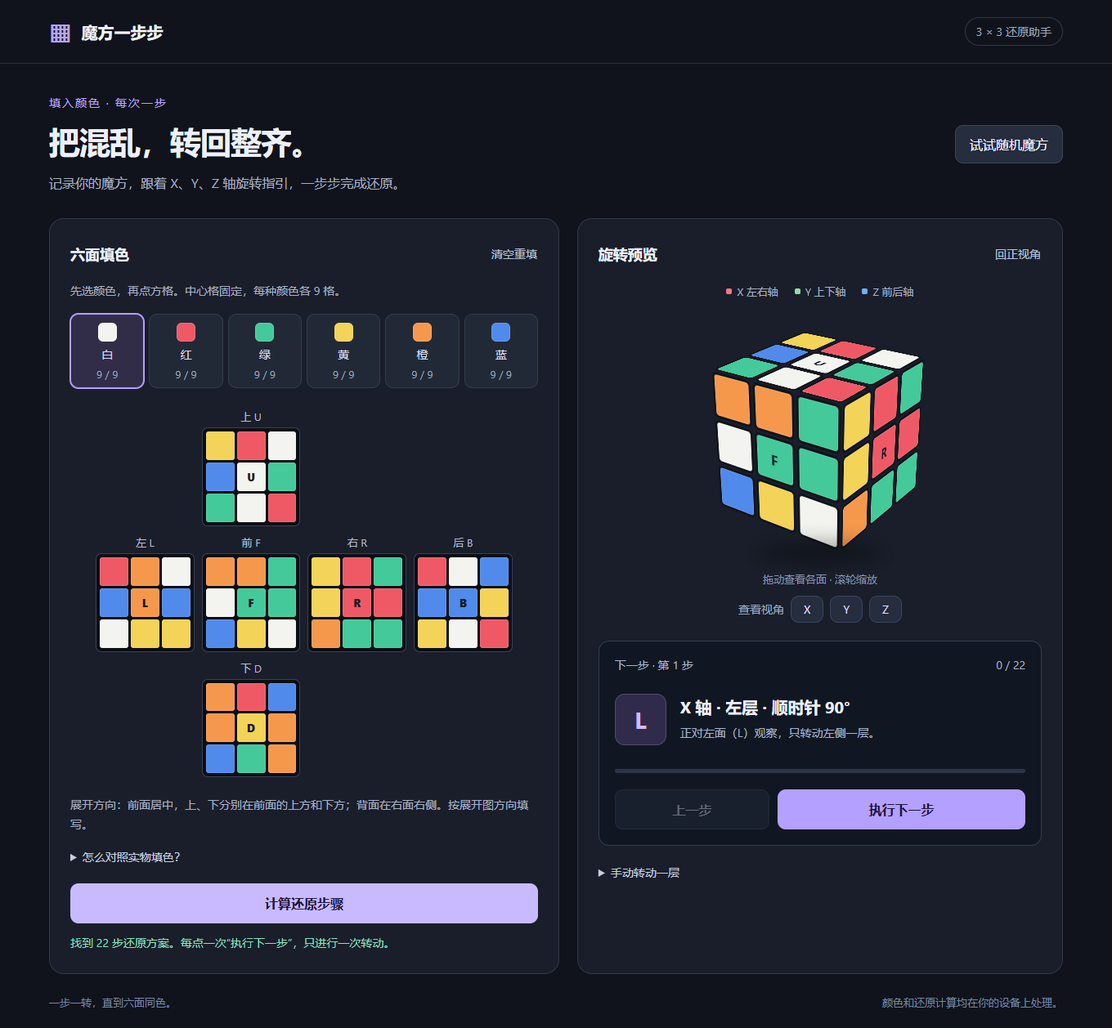
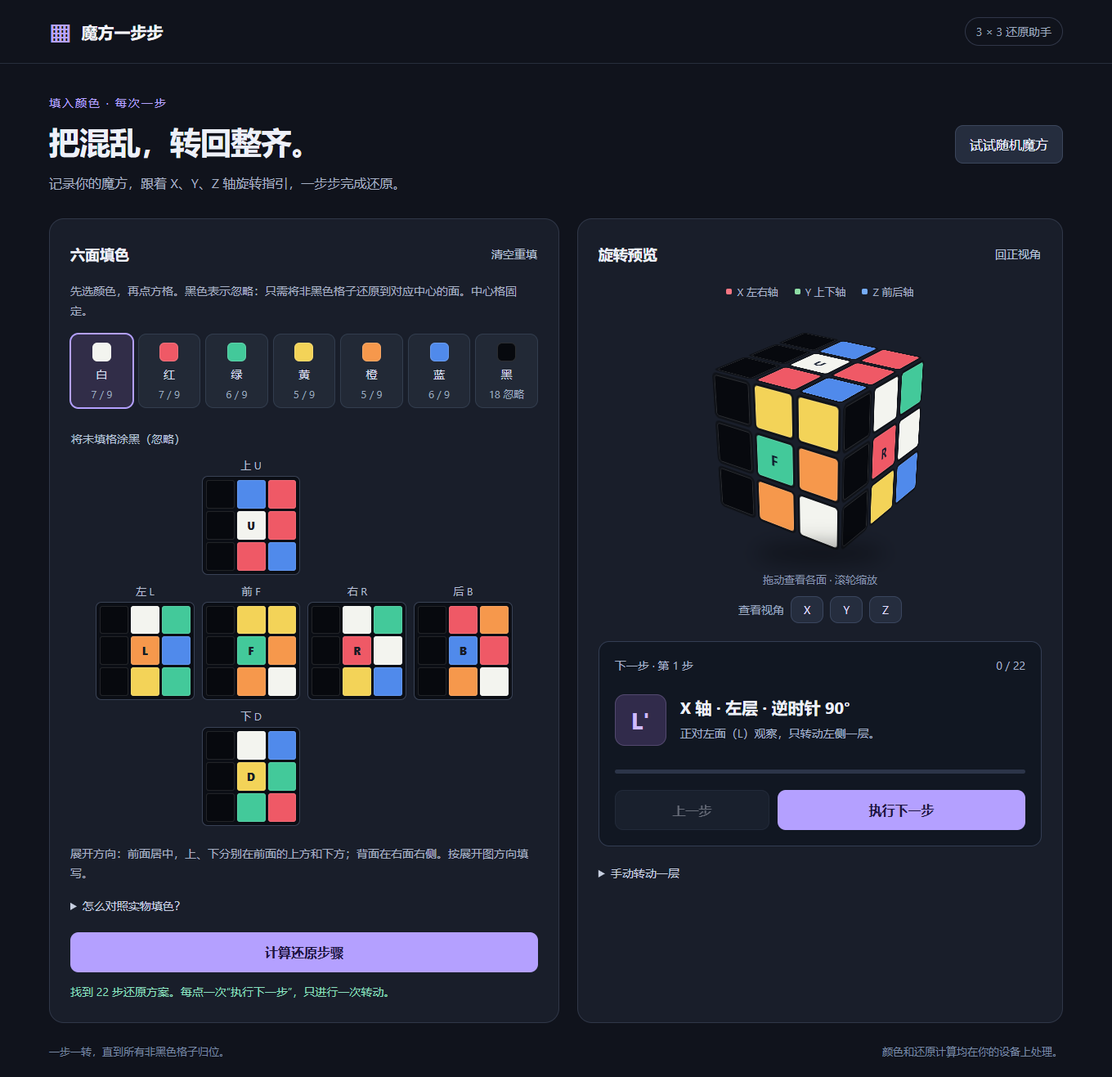
Update Site source

diff --git a/dist/app.js b/dist/app.js
@@ -1,23 +1,24 @@
 (() => {
-  const {faces,names,turns,geometry,describe,validate}=CubeCore;
-  const colors={w:{name:'白',hex:'#f3f4ef'},r:{name:'红',hex:'#ef5966'},g:{name:'绿',hex:'#43c99a'},y:{name:'黄',hex:'#f3d358'},o:{name:'橙',hex:'#f6984c'},b:{name:'蓝',hex:'#508aeb'}};
+  const {faces,names,turns,geometry,describe,validatePattern,isPatternSolved,applyMove}=CubeCore;
+  const colors={w:{name:'白',hex:'#f3f4ef'},r:{name:'红',hex:'#ef5966'},g:{name:'绿',hex:'#43c99a'},y:{name:'黄',hex:'#f3d358'},o:{name:'橙',hex:'#f6984c'},b:{name:'蓝',hex:'#508aeb'},k:{name:'黑',hex:'#07090e'}};
   let centers=['w','r','g','y','o','b'],stickers=faces.flatMap((_,i)=>Array(9).fill(centers[i])),selected='w';
   let moves=[],cursor=0,hasPlan=false,busy=false,animating=false,worker=null,job=0,timer=null;
   let view={x:-25,y:-35,z:0,scale:1};
   const $=id=>document.getElementById(id),cubeEl=$('cube'),net=$('net');
   const status=(text,kind='')=>{$('status').textContent=text;$('status').className='status '+kind;};
   const faceColor=face=>centers[faces.indexOf(face)];
-  function encoded(){return stickers.map(c=>{const i=centers.indexOf(c);return i<0?'?':faces[i];}).join('');}
+  function encoded(){return stickers.map(c=>{if(c==='k')return '*';const i=centers.indexOf(c);return i<0?'?':faces[i];}).join('');}
+  function fromPattern(text){stickers=[...text].map(c=>c==='*'?'k':faceColor(c));}
   function fromCube(c){stickers=[...c.asString()].map(faceColor);}
   function save(){try{localStorage.setItem('cube-step-v1',JSON.stringify({centers,stickers}));}catch{}}
-  try{const v=JSON.parse(localStorage.getItem('cube-step-v1'));if(v&&v.centers?.length===6&&new Set(v.centers).size===6&&v.centers.every(c=>colors[c])&&v.stickers?.length===54&&v.stickers.every(c=>c===null||colors[c])&&faces.every((_,i)=>v.stickers[i*9+4]===v.centers[i])){centers=v.centers;stickers=v.stickers;}}catch{}
+  try{const v=JSON.parse(localStorage.getItem('cube-step-v1'));if(v&&v.centers?.length===6&&new Set(v.centers).size===6&&v.centers.every(c=>colors[c]&&c!=='k')&&v.stickers?.length===54&&v.stickers.every(c=>c===null||colors[c])&&faces.every((_,i)=>v.stickers[i*9+4]===v.centers[i])){centers=v.centers;stickers=v.stickers;}}catch{}
   function invalidate(){moves=[];cursor=0;hasPlan=false;updateSteps();}
   function renderPalette(){
     $('palette').replaceChildren();
     for(const [key,color]of Object.entries(colors)){
       const count=stickers.filter(c=>c===key).length,b=document.createElement('button');
       b.className='paint';b.setAttribute('aria-pressed',String(selected===key));b.setAttribute('aria-label',`${color.name}色，已填 ${count} 格`);
-      b.innerHTML=`<span class="paint-swatch" style="background:${color.hex}"></span><span>${color.name}</span><span class="paint-count ${count>9?'over':''}">${count} / 9</span>`;
+      b.innerHTML=`<span class="paint-swatch" style="background:${color.hex}"></span><span>${color.name}</span><span class="paint-count ${key!=='k'&&count>9?'over':''}">${key==='k'?count+' 忽略':count+' / 9'}</span>`;
       b.disabled=busy||animating;b.onclick=()=>{selected=key;renderPalette();};$('palette').append(b);
     }
   }
@@ -51,14 +52,14 @@
     $('step-count').textContent=`${cursor} / ${moves.length}`;
     $('move-token').textContent=complete?'✓':hasPlan?moves[cursor]:'—';
     const info=hasPlan&&!complete?describe(moves[cursor]):null;
-    $('instruction-title').textContent=info?.title||(complete?'六面已经归位':'准备好你的魔方');
-    $('instruction-detail').textContent=info?.detail||(complete?'已完成全部步骤。你可以返回上一步复习。':'填写六面颜色后，点击“计算还原步骤”。');
+    $('instruction-title').textContent=info?.title||(complete?(stickers.includes('k')?'非黑色格子已归位':'六面已经归位'):'准备好你的魔方');
+    $('instruction-detail').textContent=info?.detail||(complete?(stickers.includes('k')?'黑色格子不参与完成判断。你可以返回上一步复习。':'已完成全部步骤。你可以返回上一步复习。'):'填写六面颜色后，点击“计算还原步骤”。');
     const percent=hasPlan?(moves.length?cursor/moves.length*100:100):0;
     $('progress-fill').style.width=percent+'%';document.querySelector('.progress').setAttribute('aria-valuenow',String(Math.round(percent)));
     $('prev').disabled=!hasPlan||cursor===0||busy||animating;
     $('next').disabled=!hasPlan||complete||busy||animating;
     $('next').textContent=complete?'已完成还原':animating?'正在转动…':'执行下一步';
-    for(const id of ['solve','demo','clear','manual-apply','manual-axis','manual-layer','manual-turn'])$(id).disabled=busy||animating;
+    for(const id of ['solve','demo','clear','mask-empty','manual-apply','manual-axis','manual-layer','manual-turn'])$(id).disabled=busy||animating;
     $('solve').textContent=busy?'正在计算…':'计算还原步骤';
     document.querySelectorAll('#centers select').forEach(el=>el.disabled=busy||animating);
   }
@@ -66,21 +67,22 @@
   function renderCenters(){
     $('centers').replaceChildren();faces.forEach((face,i)=>{
       const label=document.createElement('label');label.textContent=`${names[face]}面 ${face}`;const sel=document.createElement('select');sel.setAttribute('aria-label',`${names[face]}面中心颜色`);
-      Object.entries(colors).forEach(([k,v])=>{const opt=document.createElement('option');opt.value=k;opt.textContent=v.name;sel.append(opt);});sel.value=centers[i];
+      Object.entries(colors).filter(([k])=>k!=='k').forEach(([k,v])=>{const opt=document.createElement('option');opt.value=k;opt.textContent=v.name;sel.append(opt);});sel.value=centers[i];
       sel.onchange=()=>{const old=centers[i],other=centers.indexOf(sel.value),next=sel.value;centers[i]=next;centers[other]=old;stickers=stickers.map(c=>c===old?next:c===next?old:c);invalidate();renderCenters();renderAll();status('中心配色已调整；请对照实物检查其余方格。');};label.append(sel);$('centers').append(label);
     });
   }
   $('demo').onclick=()=>{const c=new Cube();let last='';for(let i=0;i<22;i++){let f;do{f=faces[Math.floor(Math.random()*6)];}while(f===last);last=f;c.move(f+['',"'",'2'][Math.floor(Math.random()*3)]);}fromCube(c);invalidate();renderAll();status('已生成合法的随机魔方，点击“计算还原步骤”开始。');};
   $('clear').onclick=()=>{stickers=Array(54).fill(null);faces.forEach((_,i)=>stickers[i*9+4]=centers[i]);invalidate();renderAll();status('已保留六个中心。请选择画笔，填写其他 48 格。');};
+  $('mask-empty').onclick=()=>{stickers=stickers.map(c=>c===null?'k':c);invalidate();renderAll();status('未填格已涂黑；计算时只要求非黑色格子归位。');};
   function finishSolve(){clearTimeout(timer);timer=null;busy=false;renderPalette();renderNet();updateSteps();}
   function workerError(message){finishSolve();worker?.terminate();worker=null;status(message,'error');}
   $('solve').onclick=()=>{
-    let c;try{c=validate(encoded(),Cube);}catch(e){status(e.message,'error');return;}
-    invalidate();if(c.isSolved()){hasPlan=true;updateSteps();status('这个魔方已经还原，不需要转动。','success');return;}
+    try{validatePattern(encoded(),Cube);}catch(e){status(e.message,'error');return;}
+    invalidate();if(isPatternSolved(encoded())){hasPlan=true;updateSteps();status(stickers.includes('k')?'非黑色格子已经还原，黑色格子忽略，不需要转动。':'这个魔方已经还原，不需要转动。','success');return;}
     if(location.protocol==='file:'){status('请通过本地启动器或网站打开，浏览器直接打开文件不支持后台求解。','error');return;}
     busy=true;renderPalette();renderNet();updateSteps();status('正在计算还原步骤…');const id=++job;
     try{
-      if(!worker){worker=new Worker('solver-worker.js');worker.onmessage=({data})=>{
+      if(!worker){worker=new Worker('solver-worker.js?v=black1');worker.onmessage=({data})=>{
         if(data.id!==job)return;
         if(data.kind==='progress'){status(data.message);return;}
         if(data.kind==='error'){workerError(data.message);return;}
@@ -90,19 +92,19 @@
     }catch{workerError('浏览器无法启动求解器，请通过现代浏览器打开网站。');}
   };
   async function animateMove(move){
-    const c=validate(encoded(),Cube),info=describe(move);animating=true;renderPalette();renderNet();updateSteps();
+    const text=encoded(),info=describe(move);animating=true;renderPalette();renderNet();updateSteps();
     const group=document.createElement('div');group.className='turn-layer';cubeEl.append(group);const ai={X:0,Y:1,Z:2}[info.axis];
     for(const el of [...cubeEl.querySelectorAll('.tile')])if(geometry(el.dataset.face,Number(el.dataset.index)).p[ai]===info.layer)group.append(el);
     if(!matchMedia('(prefers-reduced-motion: reduce)').matches){
       const animation=group.animate([{transform:`rotate${info.axis}(0deg)`},{transform:`rotate${info.axis}(${info.css*info.amount}deg)`}],{duration:Math.abs(info.amount)===2?650:450,easing:'cubic-bezier(.4,0,.2,1)',fill:'forwards'});
       await animation.finished;
     }
-    c.move(move);fromCube(c);animating=false;
+    fromPattern(applyMove(text,move));animating=false;
   }
-  $('next').onclick=async()=>{if(animating||busy||!hasPlan||cursor>=moves.length)return;await animateMove(moves[cursor]);cursor++;renderAll();if(cursor===moves.length)status('还原完成！六个面都已同色。','success');};
+  $('next').onclick=async()=>{if(animating||busy||!hasPlan||cursor>=moves.length)return;await animateMove(moves[cursor]);cursor++;renderAll();if(cursor===moves.length)status(stickers.includes('k')?'还原完成！所有非黑色格子都已归位，黑色格子忽略。':'还原完成！六个面都已同色。','success');};
   $('prev').onclick=async()=>{if(animating||busy||!hasPlan||cursor===0)return;await animateMove(Cube.inverse(moves[cursor-1]));cursor--;renderAll();status('已返回上一步，可以再次执行。');};
   $('manual-apply').onclick=async()=>{
-    try{validate(encoded(),Cube);}catch(e){status(e.message,'error');return;}
+    try{validatePattern(encoded(),Cube);}catch(e){status(e.message,'error');return;}
     const axis=$('manual-axis').value,layer=Number($('manual-layer').value),face=faces.find(f=>turns[f].axis===axis&&turns[f].layer===layer),move=face+$('manual-turn').value;
     invalidate();await animateMove(move);renderAll();status(`已执行 ${describe(move).title}。可以重新计算还原方案。`);
   };

diff --git a/dist/style.css b/dist/style.css
@@ -1,1 +1,2 @@
 *{box-sizing:border-box} :root{font-family:Inter,"Segoe UI","Microsoft YaHei",sans-serif;color:#edf0f8;background:#10131c;font-size:16px;color-scheme:dark}body{margin:0}button,select{font:inherit}button,a,summary,select{-webkit-tap-highlight-color:transparent}button{cursor:pointer;border:1px solid transparent;border-radius:10px;transition:background .15s,transform .15s}button:active:not(:disabled){transform:translateY(1px)}button:disabled{opacity:.4;cursor:default}button:focus-visible,a:focus-visible,summary:focus-visible,select:focus-visible{outline:3px solid #a8bdff;outline-offset:4px}.topbar{height:78px;border-bottom:1px solid #272d3b;display:flex;align-items:center;justify-content:space-between;padding:0 max(30px,calc((100vw - 1240px)/2))}.brand{text-decoration:none;color:#f4f5fb;font-size:20px;font-weight:700;display:flex;align-items:center;gap:12px}.brand-mark{color:#b7a3ff;font-size:32px;line-height:1}.tag{color:#9da7bd;font-size:14px;border:1px solid #303648;border-radius:30px;padding:7px 13px}main{max-width:1300px;margin:auto;padding:38px 30px 20px}.intro{display:flex;align-items:center;justify-content:space-between;gap:20px;margin-bottom:30px}.eyebrow{color:#b5a2ff;font-size:14px;letter-spacing:2px;margin:0 0 12px}h1{font-size:clamp(26px,3.5vw,38px);letter-spacing:-1px;margin:0 0 12px}h2{font-size:18px;margin:0}h3{font-size:20px;margin:0 0 7px}.subtitle{color:#a6afc2;margin:0;line-height:1.7}.workspace{display:grid;grid-template-columns:1.05fr 1fr;gap:22px}.panel{background:#191e2a;border:1px solid #303748;border-radius:18px;padding:25px;min-width:0}.panel-heading{display:flex;justify-content:space-between;align-items:center;gap:15px}.hint,.orientation{color:#a6afc2;font-size:14px;line-height:1.7}.hint{margin:16px 0}.primary{background:#b4a0ff;color:#1e153e;font-weight:700;padding:13px 22px}.primary:hover:not(:disabled){background:#c9baff}.secondary{padding:12px 17px;background:#252d3e;border-color:#3b465c;color:#ecf0ff}.secondary:hover:not(:disabled){background:#333e53}.text-button{padding:7px 0;background:transparent;color:#b6c1d7;font-size:14px}.text-button:hover{color:#dfd5ff}.palette{display:grid;grid-template-columns:repeat(6,1fr);gap:6px;margin-bottom:20px}.paint{background:#222936;border-color:#323d4e;padding:10px 2px 8px;display:flex;flex-direction:column;align-items:center;gap:6px;color:#d6dcec;font-size:14px}.paint[aria-pressed=true]{border-color:#b4a0ff;box-shadow:0 0 0 1px #b4a0ff;background:#312d48}.paint-swatch{height:23px;width:23px;border-radius:6px;border:1px solid #ffffff25}.paint-count{color:#9ba7bd;font-size:13px}.paint-count.over{color:#ff9898}.net-scroll{overflow:auto;padding:6px 0 14px}.net{display:grid;grid-template-columns:repeat(4,minmax(0,1fr));grid-template-rows:repeat(3,auto);gap:11px 9px;min-width:288px;max-width:510px;margin:auto}.face{min-width:0}.face-title{font-size:13px;text-align:center;margin-bottom:5px;color:#b5bfd2}.face-grid{display:grid;grid-template-columns:repeat(3,1fr);gap:3px;background:#0b0e15;padding:4px;border:1px solid #394255;border-radius:7px}.sticker{aspect-ratio:1;min-width:0;padding:0;border-radius:3px;border:1px solid #ffffff1c;position:relative}.sticker:hover:not(:disabled){filter:brightness(1.15);outline:2px solid #c7b5ff;z-index:1}.sticker.center{color:#171b25;font-size:13px;font-weight:800;opacity:1;cursor:default}.face[data-face=U]{grid-column:2;grid-row:1}.face[data-face=L]{grid-column:1;grid-row:2}.face[data-face=F]{grid-column:2;grid-row:2}.face[data-face=R]{grid-column:3;grid-row:2}.face[data-face=B]{grid-column:4;grid-row:2}.face[data-face=D]{grid-column:2;grid-row:3}.orientation{margin:8px 0 15px}details{color:#aeb9cf;font-size:14px;line-height:1.8}summary{cursor:pointer;color:#c7cfe0}details p{margin:9px 0}.centers{display:grid;grid-template-columns:repeat(3,1fr);gap:8px;margin:12px 0}label{display:flex;flex-direction:column;gap:5px}select{border-radius:8px;background:#252d3e;border:1px solid #46516a;color:#e4e9f5;padding:9px 24px 9px 9px;font-size:14px;appearance:none;background-image:linear-gradient(45deg,transparent 50%,#a7b3c9 50%),linear-gradient(135deg,#a7b3c9 50%,transparent 50%);background-position:calc(100% - 12px) 15px,calc(100% - 8px) 15px;background-size:4px 4px;background-repeat:no-repeat}.wide{width:100%;margin-top:20px}.status{font-size:14px;color:#b5bfd1;line-height:1.7;margin:12px 0 0;min-height:24px}.status.error{color:#ffaaaa}.status.success{color:#8bdfbe}.play-panel{display:flex;flex-direction:column}.view-legend{display:flex;justify-content:center;gap:20px;margin-top:20px;font-size:13px;color:#a8b3ca}.view-legend span{display:flex;align-items:center;gap:6px}.view-legend i{width:7px;height:7px;border-radius:2px}.axis-x{background:#f77682}.axis-y{background:#8edea5}.axis-z{background:#76acfa}.scene{height:310px;position:relative;perspective:900px;touch-action:none;cursor:grab;overflow:hidden;border-radius:12px}.scene:active{cursor:grabbing}.cube{position:absolute;top:49%;left:50%;transform-style:preserve-3d;width:0;height:0}.tile{position:absolute;width:57px;height:57px;left:-28.5px;top:-28.5px;border:3px solid #101319;border-radius:7px;backface-visibility:hidden;box-shadow:inset 0 0 0 1px #ffffff25;display:flex;justify-content:center;align-items:center;font-size:19px;font-weight:750;color:#0e172b;user-select:none}.turn-layer{position:absolute;transform-style:preserve-3d}.shadow{position:absolute;width:160px;height:23px;border-radius:50%;background:#0006;filter:blur(12px);bottom:12px;left:calc(50% - 80px);pointer-events:none}.drag-hint{text-align:center;font-size:13px;color:#8795af;margin:0 0 12px}.view-controls{display:flex;gap:8px;align-items:center;justify-content:center;margin-bottom:22px;color:#9ba8c0;font-size:14px}.view-controls button{background:#252d3e;color:#e1ddff;border-color:#3a465e;padding:6px 15px}.step-card{background:#111722;border:1px solid #333d53;border-radius:13px;padding:19px}.step-top{display:flex;justify-content:space-between;color:#a6b2cb;font-size:14px;margin-bottom:19px}.instruction{display:flex;align-items:center;gap:17px;min-height:76px}.move-token{background:#312b4b;border:1px solid #53496f;min-width:63px;height:63px;border-radius:12px;display:flex;align-items:center;justify-content:center;color:#cebbff;font-size:28px;font-weight:750}.instruction p{font-size:14px;color:#a3b1cb;margin:0;line-height:1.7}.progress{height:5px;background:#2c3549;margin:23px 0 20px;border-radius:4px;overflow:hidden}.progress div{height:100%;background:#b4a0ff;width:0;transition:width .3s}.step-buttons{display:grid;grid-template-columns:1fr 1.6fr;gap:10px}.manual{margin-top:20px}.manual-controls{display:grid;grid-template-columns:.5fr 1.5fr 1.2fr;gap:8px;margin:12px 0}.manual-controls button{grid-column:1/-1}footer{display:flex;justify-content:space-between;gap:15px;color:#7888a3;font-size:13px;padding:24px 0 0;line-height:1.7}@media(min-width:1100px){.scene{height:335px}}@media(max-width:850px){.workspace{grid-template-columns:1fr}.intro{align-items:flex-start}.intro>.secondary{white-space:nowrap;padding:10px 12px;font-size:14px}.net{max-width:440px}.scene{height:300px}}@media(max-width:480px){main{padding:25px 14px 18px}.topbar{height:65px;padding:0 17px}.brand{font-size:18px}.tag{font-size:12px;padding:6px 9px}.intro{flex-wrap:wrap;margin-bottom:20px}.subtitle{font-size:14px}.panel{padding:18px 15px;border-radius:14px}.palette{gap:5px}.paint{font-size:13px}.net{gap:10px 5px}.face-title{font-size:12px}.face-grid{padding:3px;gap:2px}.view-legend{gap:15px}.instruction h3{font-size:18px}.step-card{padding:15px}.manual-controls{grid-template-columns:1fr 1fr}.manual-controls label:first-child{grid-column:1/-1}footer{flex-direction:column;gap:5px}}@media(prefers-reduced-motion:reduce){*{transition:none!important}}
+.palette{grid-template-columns:repeat(7,minmax(0,1fr))}.paint-count{white-space:nowrap}@media(max-width:480px){.palette{grid-template-columns:repeat(4,minmax(0,1fr))}}

diff --git a/dist/core.js b/dist/core.js
@@ -18,10 +18,90 @@
     const r=Math.floor(index/3),c=index%3;
     return {F:{p:[c-1,1-r,1],n:[0,0,1],rot:''},B:{p:[1-c,1-r,-1],n:[0,0,-1],rot:'rotateY(180deg)'},R:{p:[1,1-r,1-c],n:[1,0,0],rot:'rotateY(90deg)'},L:{p:[-1,1-r,c-1],n:[-1,0,0],rot:'rotateY(-90deg)'},U:{p:[c-1,1,r-1],n:[0,1,0],rot:'rotateX(90deg)'},D:{p:[c-1,-1,1-r],n:[0,-1,0],rot:'rotateX(-90deg)'}}[face];
   }
+  // Black is a travelling wildcard sticker, not a seventh physical face color.
+  function isPatternSolved(text) { return text.length===54&&[...text].every((c,i)=>c==='*'||c===faces[Math.floor(i/9)]); }
+  function validatePattern(text,Cube) {
+    if(text.length!==54||/[^URFDLB*]/.test(text))throw Error('还有未填写的方格，请补齐六个面；不需要还原的格子可涂黑。');
+    if(faces.some((f,i)=>text[i*9+4]!==f))throw Error('中心颜色不匹配，请检查六面的方向。');
+    if(!text.includes('*'))return validate(text,Cube);
+    for(const f of faces)if([...text].filter(c=>c===f).length>9)throw Error('非黑色的每种颜色不能超过 9 格；黑色格数不限。');
+    return null;
+  }
+  const cornerSlots=[[8,9,20],[6,18,38],[0,36,47],[2,45,11],[29,26,15],[27,44,24],[33,53,42],[35,17,51]];
+  const edgeSlots=[[5,10],[7,19],[3,37],[1,46],[32,16],[28,25],[30,43],[34,52],[23,12],[21,41],[50,39],[48,14]];
+  const solved=faces.map(f=>f.repeat(9)).join('');
+  function completePattern(text,Cube) {
+    const full=validatePattern(text,Cube);if(full)return full;
+    function group(slots,wantedParity) {
+      const width=slots[0].length;
+      const candidates=slots.map((indices,slot)=>{
+        const out=[];
+        // Prefer retaining the solved piece where unconstrained.
+        const pieces=[slot,...slots.map((_,i)=>i).filter(i=>i!==slot)];
+        for(const piece of pieces)for(let ori=0;ori<width;ori++){
+          if(slots[piece].every((source,n)=>{const target=indices[(n+ori)%width];return text[target]==='*'||text[target]===solved[source];}))out.push({piece,ori});
+        }
+        return out;
+      });
+      const order=slots.map((_,i)=>i).sort((a,b)=>candidates[a].length-candidates[b].length);
+      const orderParity=parity(order),failed=new Set(),result=Array(slots.length);
+      function search(depth,used,sum,inv) {
+        if(depth===slots.length)return sum===0&&(inv^orderParity)===wantedParity;
+        const key=used+','+sum+','+inv;if(failed.has(key))return false;
+        const slot=order[depth];
+        for(const c of candidates[slot]){
+          if(used&(1<<c.piece))continue;
+          let added=0;for(let p=c.piece+1;p<slots.length;p++)if(used&(1<<p))added^=1;
+          result[slot]=c;
+          if(search(depth+1,used|(1<<c.piece),(sum+c.ori)%width,inv^added))return true;
+        }
+        failed.add(key);return false;
+      }
+      return search(0,0,0,0)?result:null;
+    }
+    for(let p=0;p<2;p++){
+      const corners=group(cornerSlots,p);if(!corners)continue;
+      const edges=group(edgeSlots,p);if(!edges)continue;
+      const cube=new Cube();cube.cp=corners.map(c=>c.piece);cube.co=corners.map(c=>c.ori);cube.ep=edges.map(c=>c.piece);cube.eo=edges.map(c=>c.ori);
+      const completed=cube.asString();
+      if([...text].some((c,i)=>c!=='*'&&c!==completed[i]))throw Error('无法匹配非黑色格子，请核对填色。');
+      return validate(completed,Cube);
+    }
+    throw Error('这些非黑色格子无法通过真实魔方转动同时还原。请检查填色，或将不关心的格子涂黑。');
+  }
+  const geom=faces.flatMap(f=>Array.from({length:9},(_,i)=>geometry(f,i)));
+  const positionKey=(p,n)=>p.join(',')+'|'+n.join(',');
+  const positions=new Map(geom.map((g,i)=>[positionKey(g.p,g.n),i]));
+  function quarter(v,axis,sign) {
+    const [x,y,z]=v;return axis==='X'?[x,-sign*z,sign*y]:axis==='Y'?[sign*z,y,-sign*x]:[-sign*y,sign*x,z];
+  }
+  const permutations=Object.fromEntries(faces.map(face=>{
+    const t=turns[face],axis={X:0,Y:1,Z:2}[t.axis],permutation=geom.map((_,i)=>i);
+    geom.forEach((g,i)=>{if(g.p[axis]===t.layer)permutation[positions.get(positionKey(quarter(g.p,t.axis,-t.layer),quarter(g.n,t.axis,-t.layer)))]=i;});
+    return [face,permutation];
+  }));
+  function applyMove(text,move) {
+    const permutation=permutations[move[0]],count=move.endsWith('2')?2:move.endsWith("'")?3:1;
+    for(let n=0;n<count;n++)text=permutation.map(i=>text[i]).join('');
+    return text;
+  }
+  // A small search handles simple partial goals without unnecessarily solving hidden colors.
+  function shortPatternSolution(text,maxDepth=3) {
+    function visit(state,left,last,path){
+      if(isPatternSolved(state))return path;
+      if(!left)return null;
+      for(const f of faces){if(f===last)continue;for(const suffix of ['',"'",'2']){
+        const move=f+suffix,result=visit(applyMove(state,move),left-1,f,[...path,move]);if(result)return result;
+      }}
+      return null;
+    }
+    for(let d=0;d<=maxDepth;d++){const found=visit(text,d,'',[]);if(found)return found;}
+    return null;
+  }
   function describe(move) {
     const f=move[0],t=turns[f],amount=move.endsWith('2')?2:move.endsWith("'")?-1:1;
     return {...t,face:f,amount,title:`${t.axis} 轴 · ${names[f]}层 · ${Math.abs(amount)===2?'180°':amount<0?'逆时针 90°':'顺时针 90°'}`,detail:`正对${names[f]}面（${f}）观察，只转动${names[f]}侧一层。`};
   }
-  const api={faces,names,turns,validate,geometry,describe};
+  const api={faces,names,turns,validate,geometry,describe,isPatternSolved,validatePattern,completePattern,applyMove,shortPatternSolution};
   if(typeof module!=='undefined')module.exports=api;else root.CubeCore=api;
 })(typeof self!=='undefined'?self:globalThis);

diff --git a/dist/index.html b/dist/index.html
@@ -6,10 +6,10 @@
   <meta name="theme-color" content="#10131c">
   <meta name="description" content="填写三阶魔方六面颜色，查看 X、Y、Z 轴逐步旋转指引，一次一步还原。">
   <title>魔方一步步 · 三阶魔方还原</title>
-  <link rel="stylesheet" href="style.css">
+  <link rel="stylesheet" href="style.css?v=black1">
   <script src="vendor/cube.js" defer></script>
-  <script src="core.js" defer></script>
-  <script src="app.js" defer></script>
+  <script src="core.js?v=black1" defer></script>
+  <script src="app.js?v=black1" defer></script>
 </head>
 <body>
   <header class="topbar"><a class="brand" href="./"><span class="brand-mark">▦</span>魔方一步步</a><span class="tag">3 × 3 还原助手</span></header>
@@ -18,8 +18,9 @@
     <div class="workspace">
       <section class="panel input-panel" aria-labelledby="input-title">
         <div class="panel-heading"><h2 id="input-title">六面填色</h2><button id="clear" class="text-button">清空重填</button></div>
-        <p class="hint">先选颜色，再点方格。中心格固定，每种颜色各 9 格。</p>
+        <p class="hint">先选颜色，再点方格。黑色表示忽略：只需将非黑色格子还原到对应中心的面。中心格固定。</p>
         <div id="palette" class="palette" role="group" aria-label="选择画笔颜色"></div>
+        <button id="mask-empty" class="text-button">将未填格涂黑（忽略）</button>
         <div class="net-scroll"><div id="net" class="net" aria-label="魔方六面展开图"></div></div>
         <p class="orientation">展开方向：前面居中，上、下分别在前面的上方和下方；背面在右面右侧。按展开图方向填写。</p>
         <details><summary>怎么对照实物填色？</summary><p>先选定上面 U 和前面 F，并保持这两个方向。左右面像书页一样向外展开，背面接在右面外侧。上面的下边、下面的上边都与前面相接。可拖动右侧模型核对各面的方向，中心颜色不变。</p><p>默认上白、下黄、前绿、后蓝、左橙、右红。如果实物朝向不同，先将白色中心朝上、绿色中心朝前。自定义配色可在下面更改中心颜色。</p><div id="centers" class="centers"></div></details>
@@ -41,7 +42,7 @@
         <details class="manual"><summary>手动转动一层</summary><p>用于调整屏幕中的魔方。每次操作会清除原还原方案，需要重新计算。</p><div class="manual-controls"><label>轴<select id="manual-axis"><option>X</option><option>Y</option><option>Z</option></select></label><label>层<select id="manual-layer"><option value="1">正侧（右 / 上 / 前）</option><option value="-1">负侧（左 / 下 / 后）</option></select></label><label>方向<select id="manual-turn"><option value="">顺时针 90°</option><option value="'">逆时针 90°</option><option value="2">旋转 180°</option></select></label><button id="manual-apply" class="secondary">转动一层</button></div><p>方向均为正对所转面的视角。X / Y / Z 视角按钮仅改变观看角度。</p></details>
       </section>
     </div>
-    <footer><span>一步一转，直到六面同色。</span><span>颜色和还原计算均在你的设备上处理。</span></footer>
+    <footer><span>一步一转，直到所有非黑色格子归位。</span><span>颜色和还原计算均在你的设备上处理。</span></footer>
   </main>
 </body>
 </html>

diff --git a/dist/solver-worker.js b/dist/solver-worker.js
@@ -1,12 +1,21 @@
-importScripts('vendor/cube.js', 'vendor/solve.js', 'core.js');
+importScripts('vendor/cube.js', 'vendor/solve.js', 'core.js?v=black1');
 let initialized=false;
 self.onmessage=event=>{
   const {text,id}=event.data;
   try {
-    const cube=CubeCore.validate(text,Cube);
+    CubeCore.validatePattern(text,Cube);
+    if(text.includes('*')){
+      self.postMessage({id,kind:'progress',message:'正在寻找只还原非黑色格子的步骤…'});
+      const short=CubeCore.shortPatternSolution(text);
+      if(short){self.postMessage({id,kind:'result',moves:short});return;}
+    }
+    const cube=CubeCore.completePattern(text,Cube);
     if(!initialized){self.postMessage({id,kind:'progress',message:'正在准备求解器，首次使用需要几秒钟…'});Cube.initSolver();initialized=true;}
-    const moves=cube.isSolved()?[]:cube.solve().trim().split(/\s+/).filter(Boolean);
-    if(!cube.clone().move(moves.join(' ')).isSolved())throw Error('未能得到有效还原方案，请重新计算。');
+    let moves=cube.isSolved()?[]:cube.solve().trim().split(/\s+/).filter(Boolean);
+    let current=text,stop=0;
+    while(!CubeCore.isPatternSolved(current)&&stop<moves.length)current=CubeCore.applyMove(current,moves[stop++]);
+    if(!CubeCore.isPatternSolved(current))throw Error('未能得到有效还原方案，请重新计算。');
+    moves=moves.slice(0,stop);
     self.postMessage({id,kind:'result',moves});
   }catch(error){self.postMessage({id,kind:'error',message:error.message});}
 };

diff --git a/README.md b/README.md
@@ -2,6 +2,10 @@
 
 三阶魔方填色和逐步还原工具。六面录入、颜色计数、中心配色调整、合法性检查、后台求解、逐步动画、撤回一步、X/Y/Z 轴与转动层说明。填色自动保存在当前浏览器。
 
+黑色是“忽略”标记：黑格随所在层一起转动，但不参与完成判断。只要其余非黑色格子都在对应中心颜色的面上，就完成还原。黑色格数不限，不能设为中心色。可用“将未填格涂黑”快速输入局部目标。
+
+局部状态先寻找三步内的解；否则按已知颜色补出一个合法状态并求解，仅显示原来的非黑色和黑色格。方案会在非黑色目标首次达成时结束，不保证全局最短。与已知颜色不相容的角块、棱块组合会被拒绝。
+
 运行 `node server.cjs`，打开 http://127.0.0.1:4317 ，也可双击启动魔方助手.cmd。网页必须通过 HTTP 打开，以支持后台求解线程。
 
 操作：点击“清空重填”，选择颜色并填写六面展开图，点击“计算还原步骤”。每次点“执行下一步”只执行一条转动，180° 作为一步。视角按钮只改变观察角度，手动层转动会清除旧方案。
